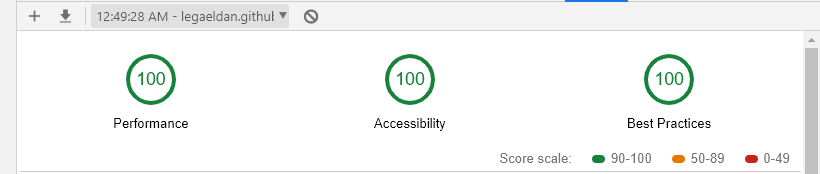
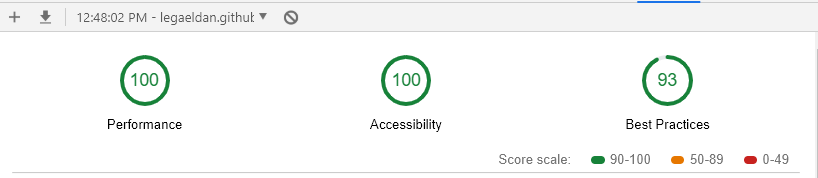
Updated audit results to README.md

diff --git a/README.md b/README.md
@@ -74,7 +74,7 @@ Unfortunately not all of the features work fully on IE11. Currently the smooth s
 
 I am currently aware that the main logo does not align correctly, but after much investigation, I am unable to correct this as of yet without affecting the layout on Chrome. Also the parallax effect which the site is built around does not work on IE11, and currently only stutters the images when scrolling, instead of holding the images static.
 
-Testing via Chrome went more smoothly. Mainly to point, when running an audit using the inbuilt developer tools, scored 100 across the board once deployment was completed as shown below.
+Testing via Chrome went more smoothly. Mainly to point, when running an audit using the inbuilt developer tools, scored 100 with both performance and accessibility, with a 93 on Best Practices, which is due to the backgrounds changing aspect ratio when scaling the screen width/size.
 
 ![Audit Results](https://github.com/Legaeldan/milestone-1/blob/master/assets/images/audit-results.PNG "Audit Results")
 
